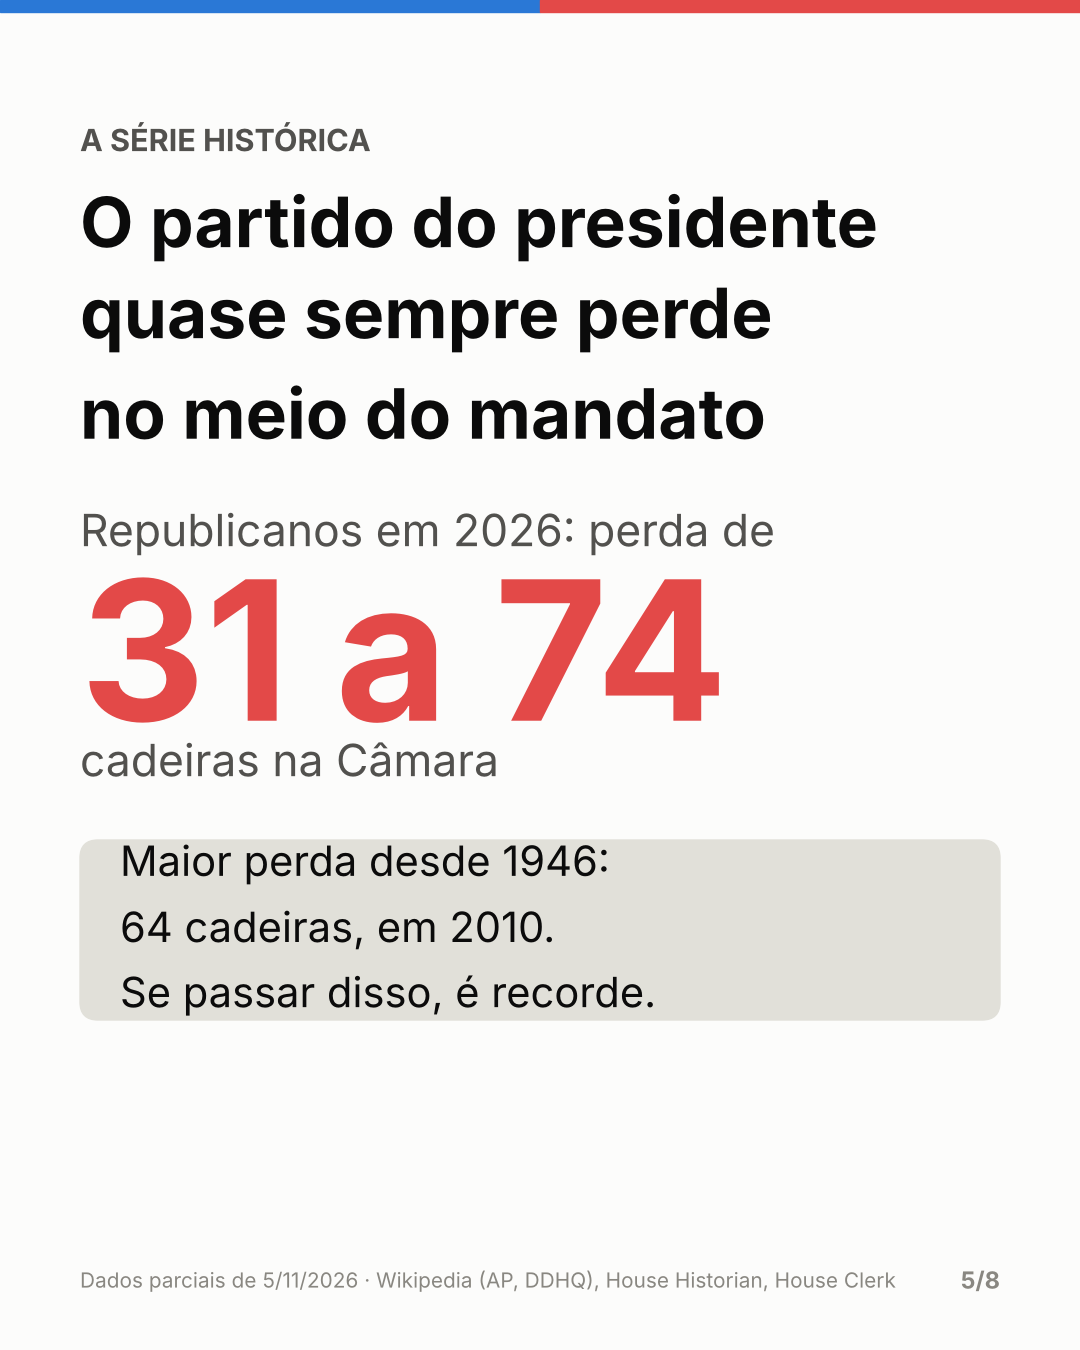
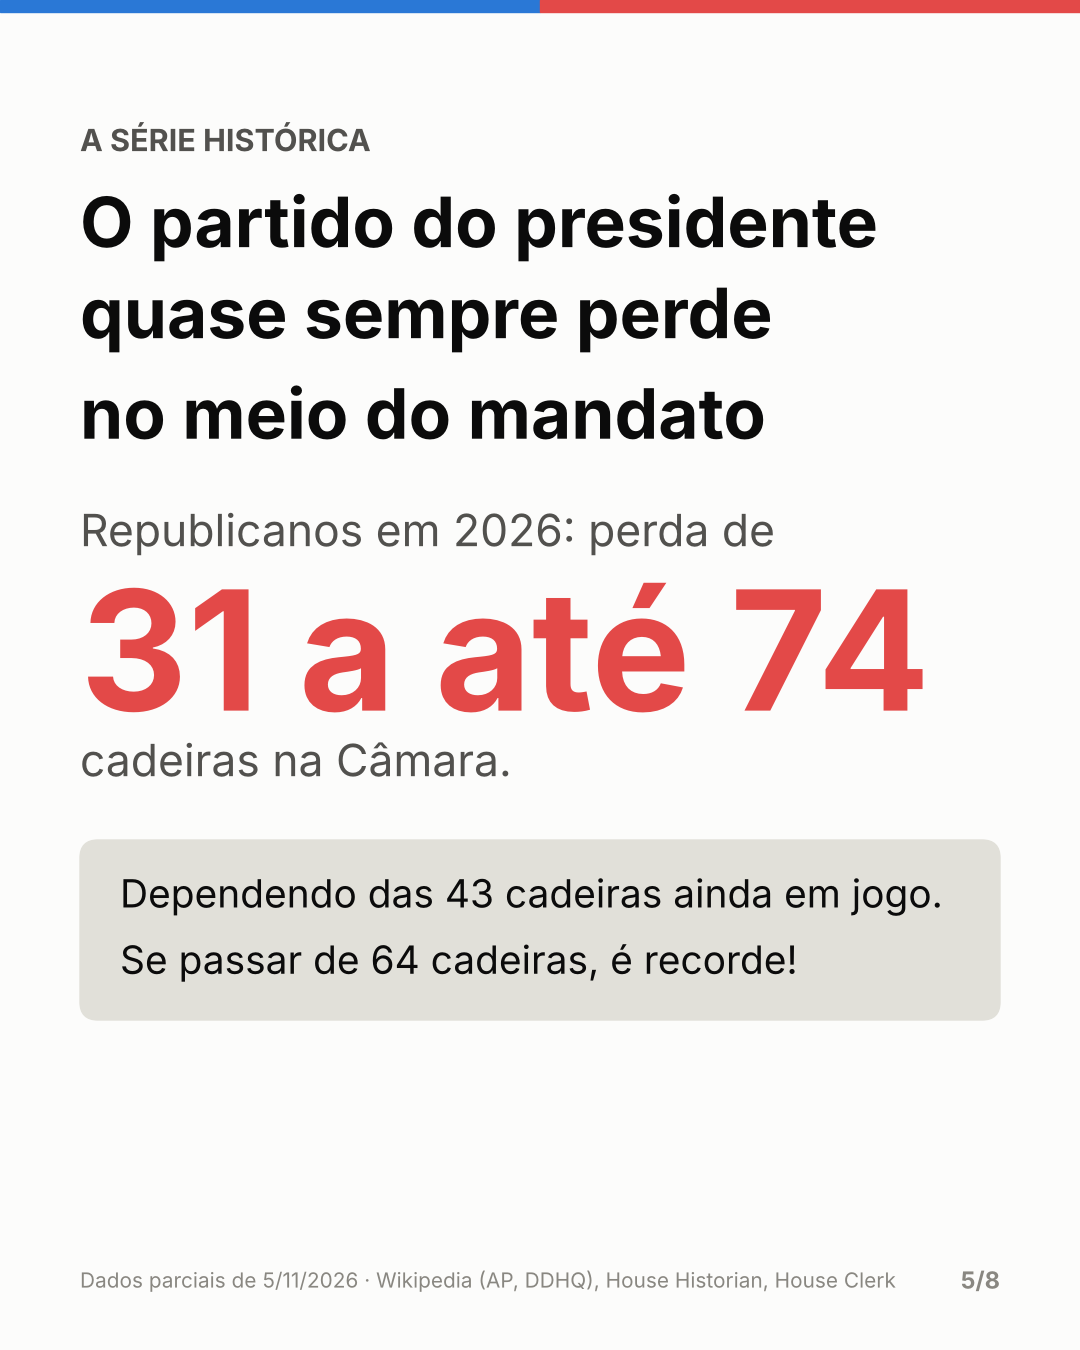
Instagram cards: new wording for the history card, Direct message instead of link in bio
Claude-Session: https://claude.ai/code/session_01Tp4BidEYaEVKNVH1WC2gpq

Changed region(s): [[0.0917, 0.4044, 0.8556, 0.56], [0.0917, 0.6222, 0.8556, 0.7467]]

diff --git a/src/build_cards.py b/src/build_cards.py
@@ -130,11 +130,11 @@ def main() -> None:
     ax.text(80, 1030, "O partido do presidente\nquase sempre perde\nno meio do mandato", fontsize=50, fontweight="bold",
             va="center", linespacing=1.1)
     ax.text(80, 820, f"Republicanos em 2026: perda de", fontsize=32, color=INK_2, va="center")
-    ax.text(80, 700, f"{lo} a {hi}", fontsize=140, color=REP, fontweight="bold", va="center")
-    ax.text(80, 590, "cadeiras na Câmara", fontsize=32, color=INK_2, va="center")
+    ax.text(80, 700, f"{lo} a até {hi}", fontsize=120, color=REP, fontweight="bold", va="center")
+    ax.text(80, 590, "cadeiras na Câmara.", fontsize=32, color=INK_2, va="center")
     ax.add_patch(FancyBboxPatch((80, 330), 920, 180, boxstyle="round,pad=0,rounding_size=18", color=LINE))
-    ax.text(120, 420, f"Maior perda desde 1946:\n{-int(worst.change)} cadeiras, em {int(worst.year)}.\n"
-                      f"Se passar disso, é recorde.", fontsize=30, va="center", linespacing=1.3)
+    ax.text(120, 420, f"Dependendo das {h26['open']} cadeiras ainda em jogo.\n"
+                      f"Se passar de {-int(worst.change)} cadeiras, é recorde!", fontsize=28, va="center", linespacing=1.4)
     save(fig, 5)
 
     # 6 women
@@ -168,14 +168,15 @@ def main() -> None:
 
     # 8 call to action
     fig, ax = card(8, N)
-    kicker(ax, "Quer ver o seu estado?")
-    ax.text(80, 920, "Cada distrito,\n2024 x 2026,\nnuma página\ninterativa", fontsize=76, fontweight="bold", va="center",
+    kicker(ax, "Quer ver o seu estado favorito?")
+    ax.text(80, 950, "Cada distrito,\n2024 x 2026,\nnuma página\ninterativa", fontsize=70, fontweight="bold", va="center",
             linespacing=1.0)
-    ax.add_patch(FancyBboxPatch((80, 480), 920, 130, boxstyle="round,pad=0,rounding_size=24", color=DEM))
-    ax.text(540, 545, "Link na bio", fontsize=56, color="white", fontweight="bold", ha="center", va="center")
-    ax.text(80, 345, "Azul é Democrata, vermelho é Republicano.\nNenhum resultado em aberto foi estimado.\n"
+    ax.add_patch(FancyBboxPatch((80, 480), 920, 180, boxstyle="round,pad=0,rounding_size=24", color=DEM))
+    ax.text(540, 570, "Mande-me um Direct\nque te envio o link.", fontsize=44, color="white", fontweight="bold",
+            ha="center", va="center", linespacing=1.2)
+    ax.text(80, 330, "Azul é Democrata, vermelho é Republicano.\nNenhum resultado em aberto foi estimado.\n"
                      "Código e dados abertos no GitHub.", fontsize=29, color=INK_2, va="center", linespacing=1.4)
-    ax.text(80, 190, "github.com/JeffAirData", fontsize=30, color=INK, fontweight="bold", va="center")
+    ax.text(80, 175, "github.com/JeffAirData", fontsize=30, color=INK, fontweight="bold", va="center")
     save(fig, 8)
 
     (OUT / "legenda.md").write_text(f"""Eleições nos EUA 2026: a virada democrata, em números 🇺🇸📊
@@ -192,7 +193,7 @@ Arraste para ver a série histórica e a representação de mulheres, hispânico
 
 Resultados parciais de 5/11/2026, só para comparação.
 
-👉 Veja cada distrito, estado por estado: link na bio
+👉 Quer ver cada distrito do seu estado favorito? Mande-me um Direct que te envio o link.
 
 #eleicoes2026 #eua #midterms #congressoamericano #dados #datascience #visualizacaodedados #politicainternacional
 """, encoding="utf8")

diff --git a/publication/instagram/legenda.md b/publication/instagram/legenda.md
@@ -12,6 +12,6 @@ Arraste para ver a série histórica e a representação de mulheres, hispânico
 
 Resultados parciais de 5/11/2026, só para comparação.
 
-👉 Veja cada distrito, estado por estado: link na bio
+👉 Quer ver cada distrito do seu estado favorito? Mande-me um Direct que te envio o link.
 
 #eleicoes2026 #eua #midterms #congressoamericano #dados #datascience #visualizacaodedados #politicainternacional
